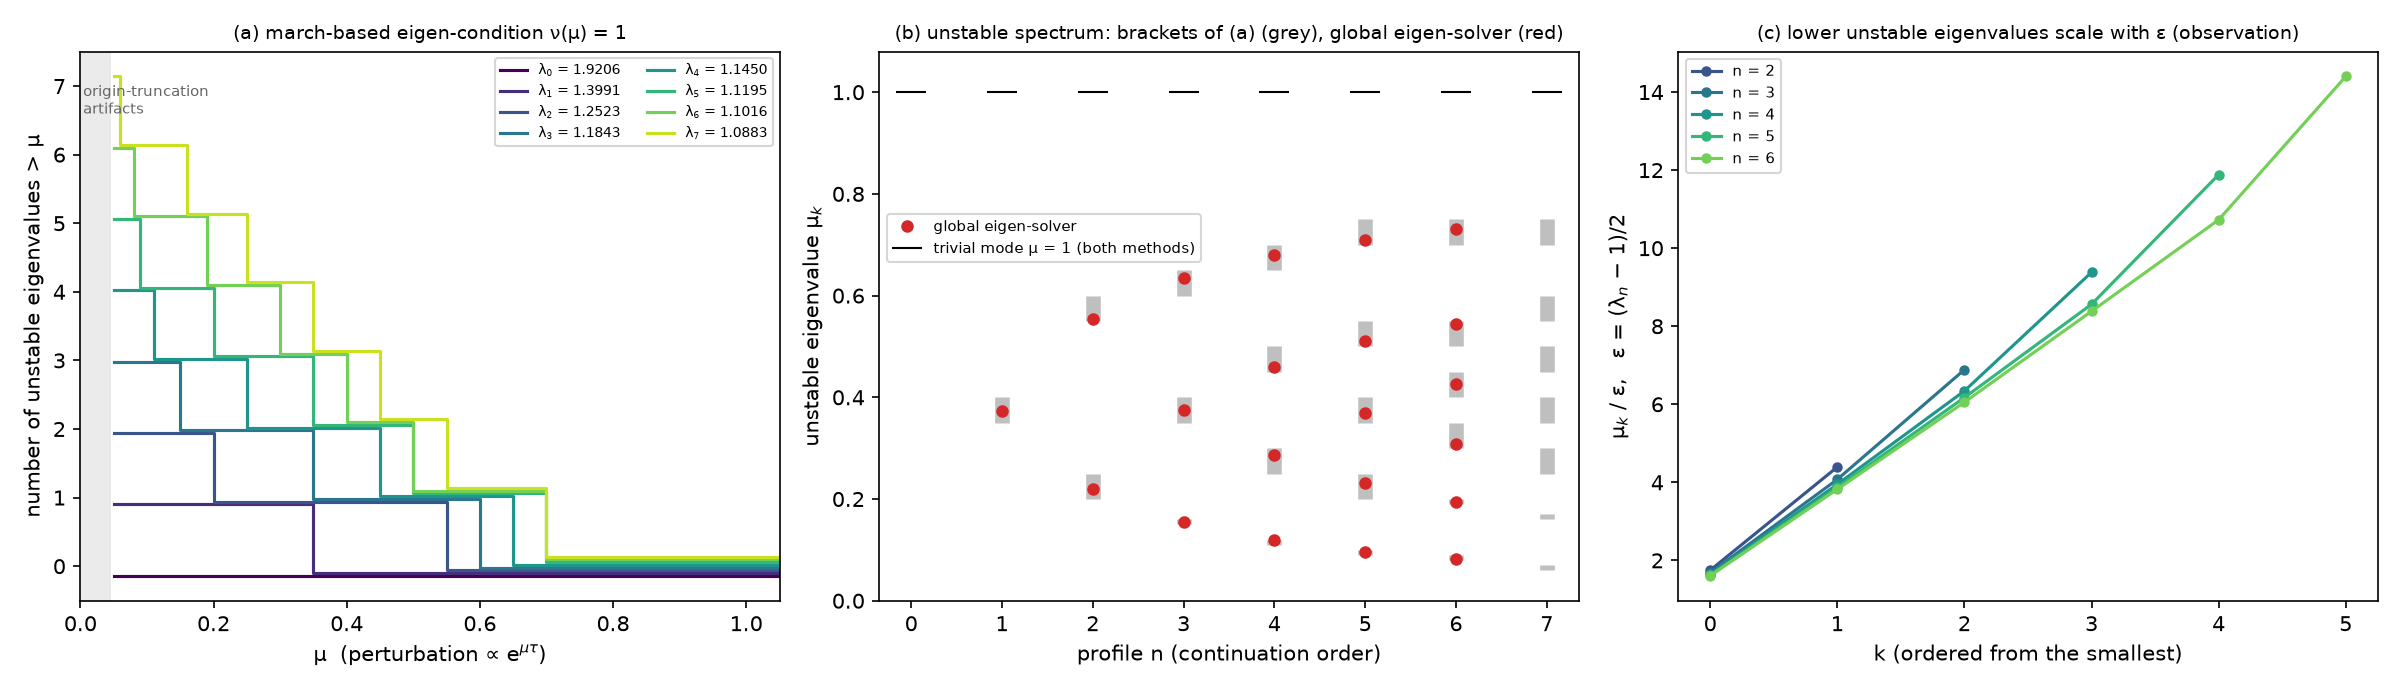
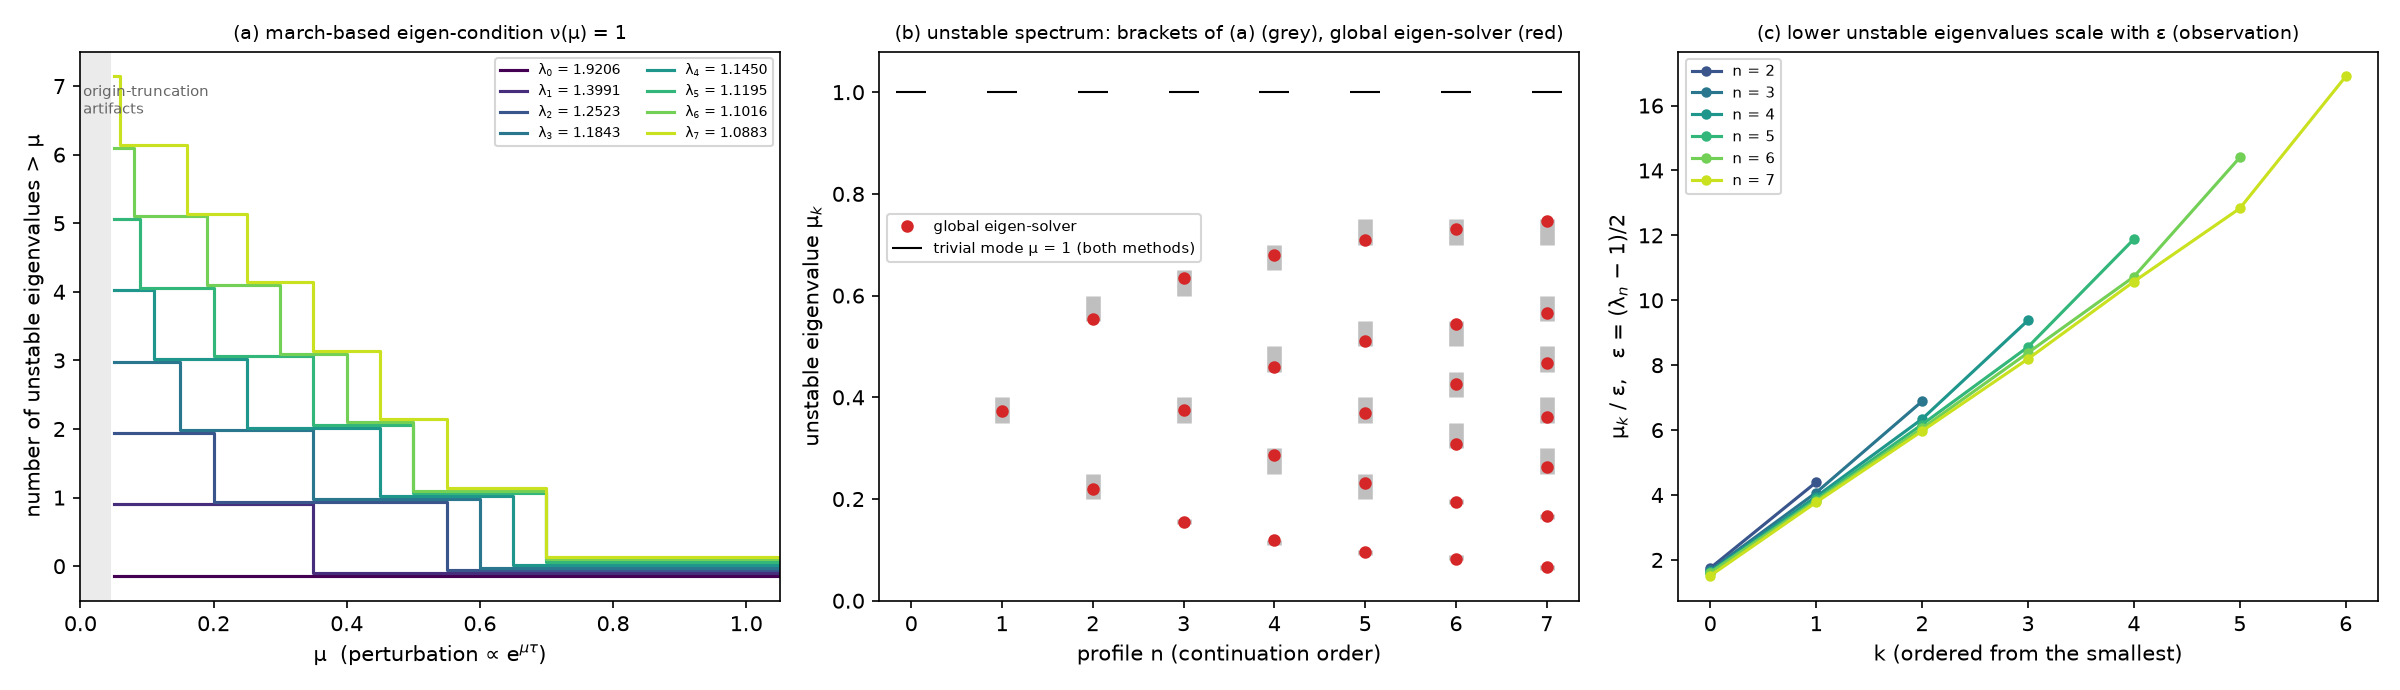
P03: lambda7 method-2 eigenvalues (six largest confirmed)
Claude-Session: https://claude.ai/code/session_019Uaxwtm17foVxpyvRRENv5

diff --git a/dossier/P03_DOSSIER.md b/dossier/P03_DOSSIER.md
@@ -36,8 +36,9 @@ stagnation point. The smooth profiles are the regularity resonances m(λ) = 2.
    - All eight are reproduced by an independent global Newton solver: different unknowns, discretisation,
      Biot–Savart solver and treatment of λ (Table 2).
    - Linear stability gives n unstable modes for the n-th profile for all eight (method 1). Wang et al. found this
-     for n ≤ 3. An independent second method confirms every eigenvalue for n ≤ 6 to about 1e-5 (Table 3). λ₇ is
-     pending in method 2; until then it is "next in continuation order" with index 7 from method 1.
+     for n ≤ 3. An independent second method confirms every eigenvalue for n ≤ 6 to about 1e-5 (Table 3). For λ₇ it
+     confirms the six largest; the seventh (0.0699) sits inside the truncation-artifact band of method 2 at
+     s_min = −12, so it is checked with s_min = −20.
 4. **[N + F] A stalled layer next to a limiting cusp.** As λ → 1⁺:
    - For x < x_c ≈ 0.72 on the wall, the radial self-similar speed is D = O(λ−1): a quasi-stagnant (stalled) layer.
    - The layer is bounded by a front. Outside the front D → k(x−x_c)^{1/2}, the same square-root cusp that ends
@@ -144,7 +145,7 @@ level: s_min −8 → −12 moves λ₁ from −3.2e-6 to −1.1e-7. Both solver
 | 4 | 4 | (0.65, 0.70), (0.45, 0.50), (0.25, 0.30), (0.11, 0.12) | 0.68004, 0.45973, 0.28629, 0.11908 |
 | 5 | 5 | (0.70, 0.75), (0.50, 0.55), (0.35, 0.40), (0.20, 0.25), (0.09, 0.10) | 0.70985, 0.51143, 0.36869, 0.23121, 0.09654 |
 | 6 | 6 | (0.70, 0.75), (0.50, 0.55), (0.40, 0.45), (0.30, 0.35), (0.19, 0.20), (0.08, 0.09) | 0.73139, 0.54481, 0.42577, 0.30749, 0.19415, 0.08154 |
-| 7 | 7 | (0.70, 0.75), (0.55, 0.60), (0.45, 0.50), (0.35, 0.40), (0.25, 0.30), (0.16, 0.17), (0.065, 0.070) | ⟨pending⟩ |
+| 7 | 7 | (0.70, 0.75), (0.55, 0.60), (0.45, 0.50), (0.35, 0.40), (0.25, 0.30), (0.16, 0.17), (0.065, 0.070) | 0.74632, 0.56676, 0.46713, 0.36192, 0.26371, 0.16678, ⟨lowest: s_min −20 run⟩ |
 
 **How the table was obtained.**
 - Trivial modes: μ = 1 (time translation) is recovered by both methods (1.000000 and 0.99999); μ = 0 (scaling) is

diff --git a/programs/P03_boussinesq_ladder/README.md b/programs/P03_boussinesq_ladder/README.md
@@ -154,7 +154,7 @@ near μ ≈ 0.66/|s_start|:
 | 4 | 4 | (0.65, 0.70), (0.45, 0.50), (0.25, 0.30), (0.11, 0.12) | 0.68004, 0.45973, 0.28629, 0.11908 | |
 | 5 | 5 | (0.70, 0.75), (0.50, 0.55), (0.35, 0.40), (0.20, 0.25), (0.09, 0.10) | 0.70985, 0.51143, 0.36869, 0.23121, 0.09654 | |
 | 6 | 6 | (0.70, 0.75), (0.50, 0.55), (0.40, 0.45), (0.30, 0.35), (0.19, 0.20), (0.08, 0.09) | 0.73139, 0.54481, 0.42577, 0.30749, 0.19415, 0.08154 | |
-| 7 | 7 | (0.70, 0.75), (0.55, 0.60), (0.45, 0.50), (0.35, 0.40), (0.25, 0.30), (0.16, 0.17), (0.06, 0.07) | ⟨s_min −20 run⟩ | |
+| 7 | 7 | (0.70, 0.75), (0.55, 0.60), (0.45, 0.50), (0.35, 0.40), (0.25, 0.30), (0.16, 0.17), (0.065, 0.070) | 0.74632, 0.56676, 0.46713, 0.36192, 0.26371, 0.16678, ⟨lowest: s_min −20⟩ | 0.0699 (s_start −20 and −30) |
 
 **Complex modes.** The argument-principle count for λ₁ returns 1.997 zeros in [0.06, 1.5] × [−1.5, 1.5], i.e. μ = 1
 and μ = 0.374, so there are no complex unstable modes there. ⟨λ₂–λ₅ running⟩.

diff --git a/dossier/P03_MANUSCRIPT_DRAFT.md b/dossier/P03_MANUSCRIPT_DRAFT.md
@@ -157,4 +157,4 @@ Method 2 (global eigen-solver) is shown. Method 1 (march-based) brackets each va
 | 4 | 4 | 0.68004, 0.45973, 0.28629, 0.11908 |
 | 5 | 5 | 0.70985, 0.51143, 0.36869, 0.23121, 0.09654 |
 | 6 | 6 | 0.73139, 0.54481, 0.42577, 0.30749, 0.19415, 0.08154 |
-| 7 | 7 | method 1: (0.70,0.75), (0.55,0.60), (0.45,0.50), (0.35,0.40), (0.25,0.30), (0.16,0.17), 0.0699 |
+| 7 | 7 | 0.74632, 0.56676, 0.46713, 0.36192, 0.26371, 0.16678, 0.0699 (method 1) |
